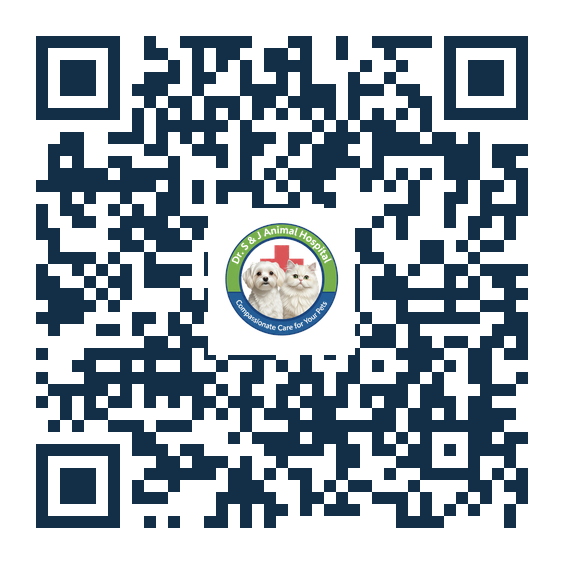
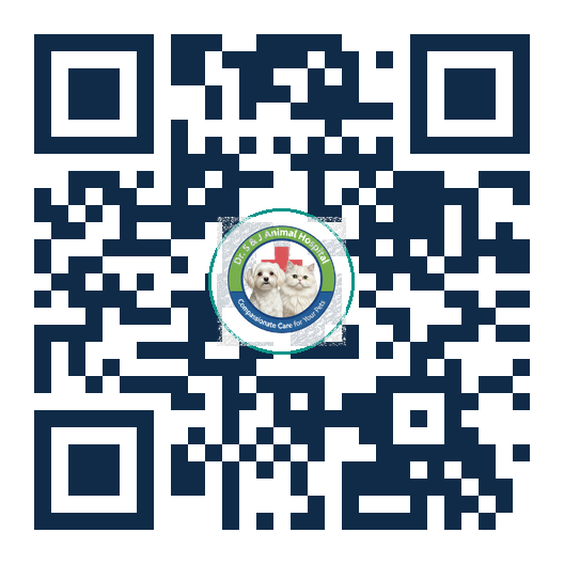
fix: regenerate QR codes pointing to https://snj-vet.com and update metadata

diff --git a/index.html b/index.html
@@ -1,4 +1,4 @@
-<!DOCTYPE html>
+<!DOCTYPE html>
 <html lang="ko">
 <head>
   <meta charset="UTF-8" />
@@ -12,13 +12,13 @@
   <meta property="og:locale" content="ko_KR" />
   <meta property="og:title" content="에스앤제이 동물병원 | 용인 신생아·소화기 특화 & 스마트 문진 포털" />
   <meta property="og:description" content="검색으로 불안해지기 전에 수의사 기준 행동 가이드를 확인하세요. 4단계 트리아지, 파보겔 계산기, 진료실 한 장 요약서 제공." />
-  <meta property="og:url" content="https://hongsoonil02-maker.github.io/snj-animal-hospital/" />
-  <meta property="og:image" content="https://hongsoonil02-maker.github.io/snj-animal-hospital/snj_qr_branded.png" />
+  <meta property="og:url" content="https://snj-vet.com/" />
+  <meta property="og:image" content="https://snj-vet.com/snj_qr_branded.png" />
   <meta property="og:site_name" content="에스앤제이 동물병원" />
   <meta name="twitter:card" content="summary_large_image" />
   <meta name="twitter:title" content="에스앤제이 동물병원 | 스마트 문진 포털" />
   <meta name="twitter:description" content="용인 봄봄솔루션 내 전문 진료센터. 365일 온라인 사전 문진 & 수요일 현장 진료." />
-  <meta name="twitter:image" content="https://hongsoonil02-maker.github.io/snj-animal-hospital/snj_qr_branded.png" />
+  <meta name="twitter:image" content="https://snj-vet.com/snj_qr_branded.png" />
   <meta name="format-detection" content="telephone=no" />
   <!-- JSON-LD LocalBusiness + VeterinaryCare -->
   <script type="application/ld+json">
@@ -27,9 +27,9 @@
     "@type": "VeterinaryCare",
     "name": "에스앤제이 동물병원",
     "alternateName": "Dr. S&J Animal Hospital",
-    "url": "https://hongsoonil02-maker.github.io/snj-animal-hospital/",
-    "logo": "https://hongsoonil02-maker.github.io/snj-animal-hospital/sj_logo.png",
-    "image": "https://hongsoonil02-maker.github.io/snj-animal-hospital/snj_qr_branded.png",
+    "url": "https://snj-vet.com/",
+    "logo": "https://snj-vet.com/sj_logo.png",
+    "image": "https://snj-vet.com/snj_qr_branded.png",
     "telephone": "+82-31-321-6562",
     "address": { "@type": "PostalAddress", "streetAddress": "선장1로 98-8 포곡읍 처인구", "addressLocality": "용인시", "addressRegion": "경기도", "addressCountry": "KR" },
     "geo": { "@type": "GeoCoordinates", "latitude": 37.267, "longitude": 127.224 },

diff --git a/snj-notice-A4.html b/snj-notice-A4.html
@@ -881,7 +881,7 @@
         </div>
       </div>
       <div class="access-right-qr">
-        <img src="./snj_qr_branded.png" alt="에스앤제이 온라인병원 QR코드" />
+        <img src="./snj_qr_branded.png?v=20260908" alt="에스앤제이 온라인병원 QR코드" />
         <span style="font-family:'Outfit', sans-serif; font-size:0.72rem; color:#0d9488; font-weight:900; margin-top:2px;">snj-vet.com</span>
         <span>에스앤제이 포털 접속</span>
       </div>
